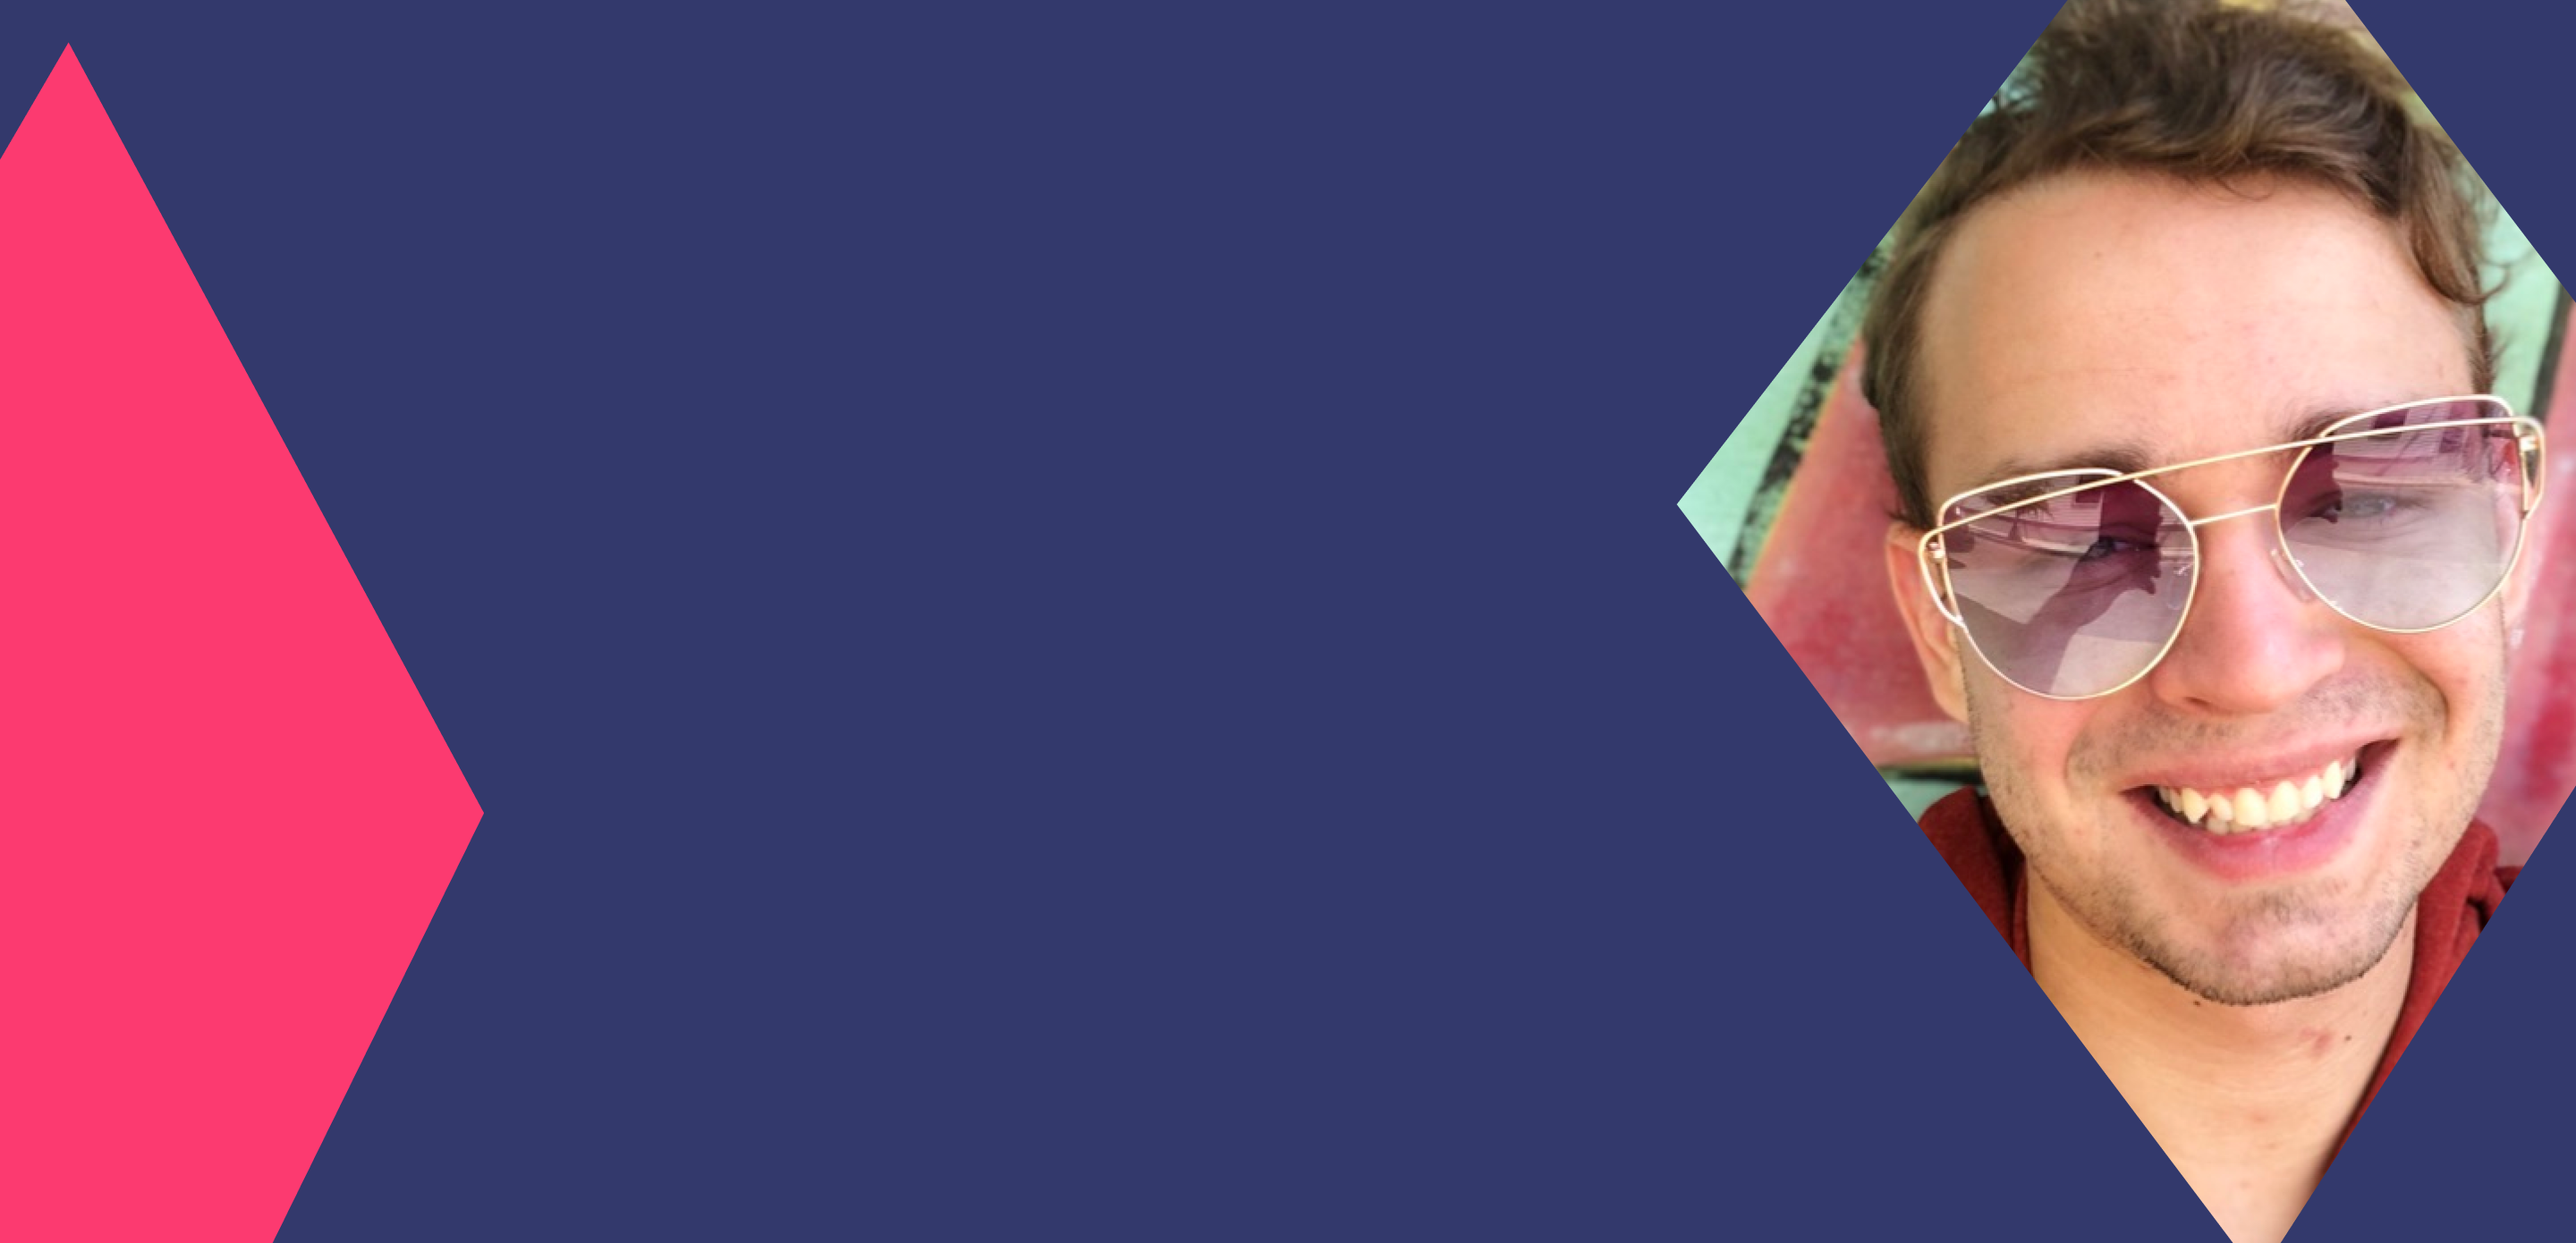
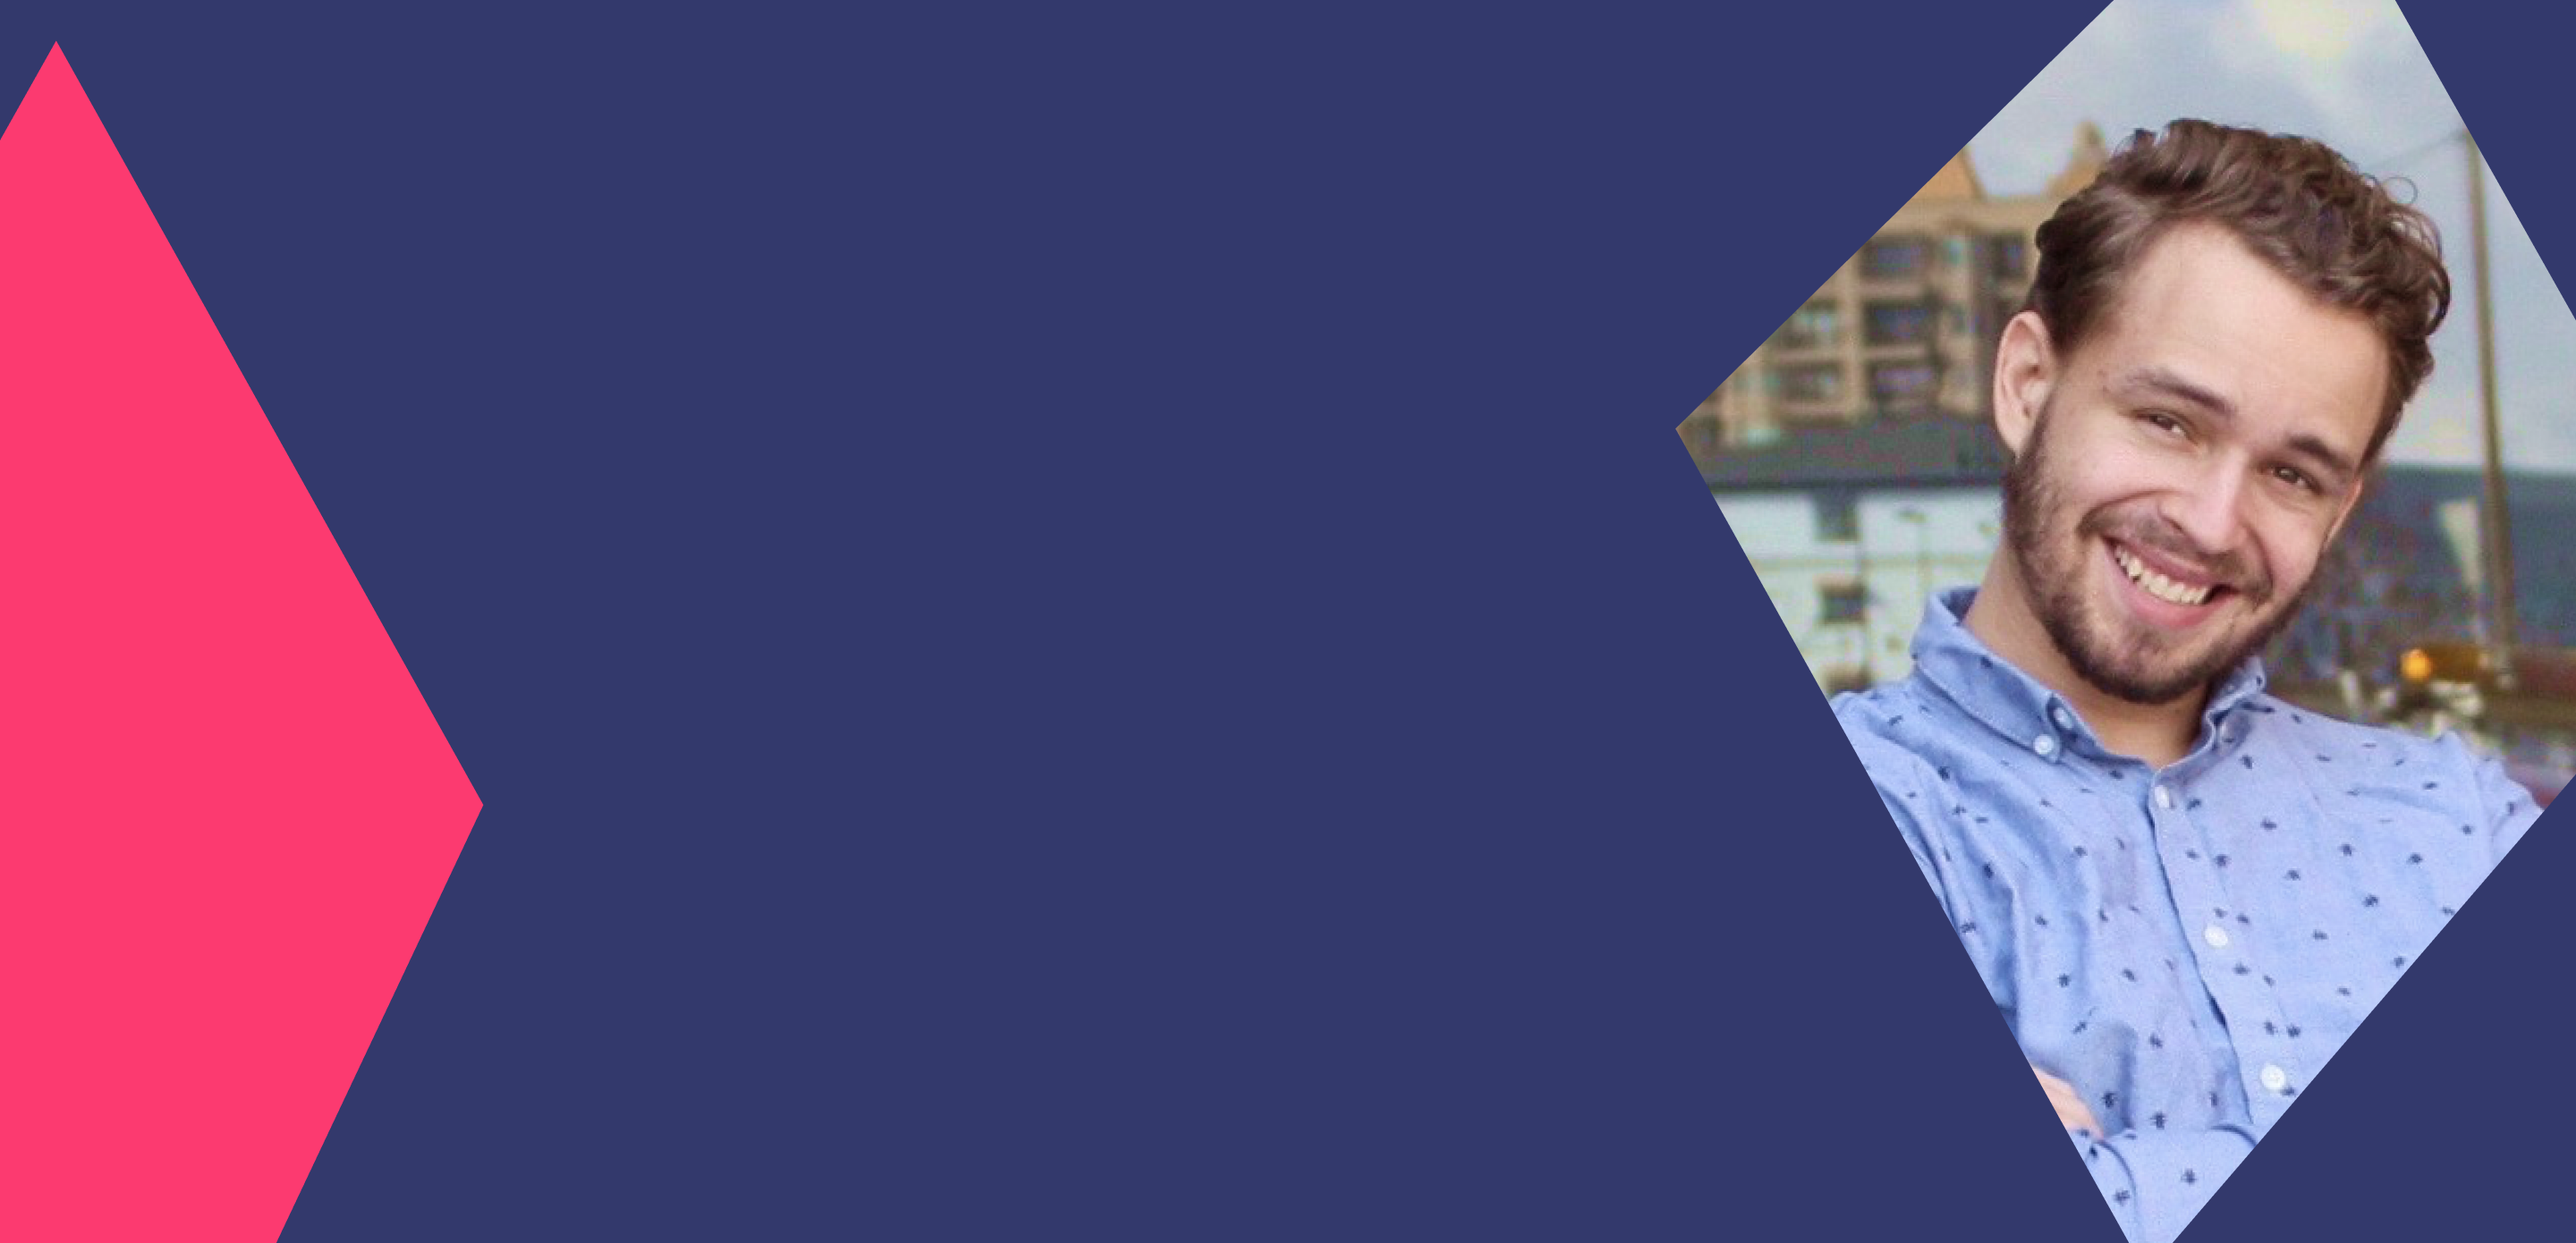
removed old hero image changed wordwars feature updated copy

Changed region(s): [[0.6562, 0.0, 1.0, 1.0], [0.0, 0.0309, 0.0625, 0.1547]]

diff --git a/src/components/hero/PrimaryHero.vue b/src/components/hero/PrimaryHero.vue
@@ -39,14 +39,14 @@ export default {
   data() {
     return {
       // eslint-disable-next-line global-require
-      backgroundUrl: require('@/assets/images/backgrounds/hero-bg-2.png'),
+      backgroundUrl: require('@/assets/images/backgrounds/hero-bg.png'),
       logo: {
         first: 'ryan',
         last: 'bliss',
       },
       content: {
         title: 'UX + Code.',
-        body: 'If you are looking for someone with deep experience coding + designing applications, conducting user research, and making data-informed decisions, you’re looking for Ryan Bliss.',
+        body: "If you're looking for someone with deep experience coding + designing applications, conducting user research, and making data-informed decisions, then you're looking for Ryan Bliss.",
       },
     };
   },
